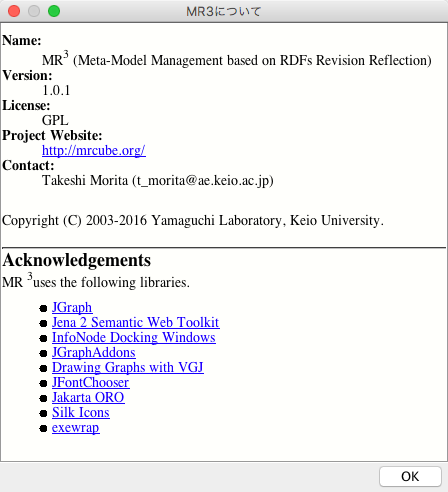
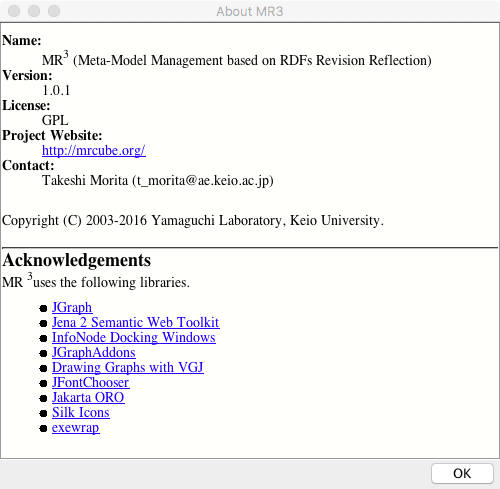
update user_manual.rst

diff --git a/docs/source/user_manual.rst b/docs/source/user_manual.rst
@@ -502,8 +502,13 @@ The users can register perfixes and the corresponding namespaces in the Namespac
 
 Remove Dialog
 -----------------
+If an RDFS class is referred by a type of a resource or a domain or a range of a property, it is inconsistency when the RDFS class is removed. If an RDFS property is reffered in the RDF editor, it is inconsistency when the RDFS property is removed. In these cases, when the users remove those RDFS classes or properties, the Remove Dialog as shown in :numref:`remove-dialog` is shown before removing them actually.
 
-削除対象のRDFSクラスを，RDFリソースのタイプまたはRDFプロパティの定義域または値域が参照している場合，そのRDFSクラスを削除すると整合性を保つことができない．RDFプロパティが削除対象のRDFSプロパティを参照している場合も同様である．これらの場合，RDF(S)コンテンツ管理機能によって， :numref:`remove-dialog` に示す「削除」ダイアログが表示される． :numref:`remove-dialog` 上部の「削除」リストには，削除対象のRDFSクラスのうち，削除すると整合性を保つことができないRDFSクラスまたはRDFSプロパティのリストが表示される． :numref:`remove-dialog` 下部の参照リスト内の「RDF」タブには，削除対象のRDFSクラスをタイプとして参照しているRDFリソースのリストまたは，削除対象のRDFSプロパティを参照しているRDFプロパティのリストが表示される．「プロパティ」タブには，定義域または値域として，削除対象のRDFSクラスを参照しているRDFSプロパティの一覧が表示される．参照リストの「削除」チェックボックスは，RDFSクラスまたは，RDFSプロパティの参照をやめるかどうかの決定に用いる．「削除」チェックボックスをチェックした状態で「適用」ボタンをクリックすると，削除対象のRDFSクラスまたはRDFSプロパティへの参照がたたれる．「削除」チェックボックスのチェックをはずした項目については，「適用」ボタンを押したときに整合性のチェックを行う．「全選択」ボタンは，すべての「削除」チェックボックスにチェックをつける．「全解除」ボタンは，すべての「削除」チェックボックスのチェックをはずす．「反転」ボタンは，現在チェックされているものとされていないものを反転する．「ジャンプ」ボタンは，選択したリソースへジャンプする．RDFリソースのタイプ，定義域，値域を変更したい場合は，ジャンプボタンで該当するリソースへジャンプして変更を行うことができる．
+Removed RDFS classes or properties are shown in the upper part of :numref:`remove-dialog`. RDF resources that referred the removed RDFS classes as their type are shown in the RDF tab in the lower part of :numref:`remove-dialog`. RDF properties that referred the removed RDFS properties are also shown in the RDF tab. RDFS properties that refer removed RDFS classes as their domains or ranges are shown in the Property tab in the lower part of :numref:`remove-dialog`.
+
+If the users check the Delete Checkboxes and click Apply button, RDF resources, RDF properties, and RDFS properties that listed in the lower part of the Remove Dialog stop referring to the removed RDFS classes or RDFS properties. Then, the RDFS classes and RDFS properties are actually removed. 
+
+If the users select one of the RDF resources, RDF properties, or RDFS properties, attributes of the selected resource are shown in the Attribute Dialog. Then, the users can edit the attributes to maintain consistency.
 
 .. _remove-dialog:
 .. figure:: figures/remove_dialog.png
@@ -591,13 +596,11 @@ The users can export RDF(S) data graphs in |MR3| to an RDF(S) document as RDF/XM
 
 Config Dialog
 ----------------
-
-設定ダイアログでは，基本，ディレクトリ，プロキシ，メタクラス，レイアウト，レンダリングについて設定を行うことができる．
+The users can set configurations about basic, directory, proxy, meta class, layout, and rendering in the Config Dialog.
 
 Basic
 ~~~~~~~~~
-
-設定ダイアログの「基本」項目（ :numref:`config-basic` ）では，言語，UI 言語，出力エンコーディング，フォント，ベースURI，ログファイルの設定ができる．言語はラベル表示を行う際に優先して表示する言語を設定できる．UI 言語は，メニューなどに表示する言語を設定できる．言語は，ja（日本語），en（英語），zh（中国語）を選択できる．出力エンコーディングは，エクスポート時にRDF(S)文書を保存するファイルエンコーディングを設定する．フォントは，各エディタ内のノード内の文字列を表示する際のフォントを設定する．ベースURI には，エクスポート時の初期の名前空間URI を設定する．ログファイルには，MR\ :sup:`3` \使用中の各種ログを保存するファイルを設定する．
+When the users select the Basic item as shown in :numref:`config-basic`, language, UI language, output encoding, font, base URI, and log file can be set. If a resource has many multilingual labels, the users should select the prior language. The prior language of labels can be set in the Lang text field. Labels with prior language are shown in each resource when the user select display->label menu. Language of UI such as menu can be set in the UI Lang list. The users can select ja (Japanese), en (English), or zh (Chinsese) from the UI Lang list. Output encoding can be used to export an RDF(S) document. The font of resources can be set by clicking Font Setting button and selecting a font from the font selecting dialog. Default namespace is set based on the Base URI. The directory that a log file is saved can be set by clicking Browse button and selecting the directory from the directory selection dialog.
 
 .. _config-basic:
 
@@ -610,8 +613,7 @@ Basic
 
 Directory
 ~~~~~~~~~~~~
-
-設定ダイアログの「ディレクトリ」項目（ :numref:`config-directory` ）では，作業ディレクトリ，プラグインディレクトリ，リソースディレクトリを設定ができる．作業ディレクトリには，インポートダイアログにおいて，RDF(S)文書を含むフォルダを選択する際に最初に開くフォルダを設定する．プラグインディレクトリには， MR\ :sup:`3` \のプラグインが保存されているフォルダを設定する．リソースディレクトリは， MR\ :sup:`3` \のプロパティファイル（メニューなどに表示する言語ごとの設定ファイル）が保存されているフォルダを設定する．
+When the users select the Directory item as shown in :numref:`config-directory`, work directory, plugins directory, and resources directory can be set. The work directory is a directory that is opened firstly when the users import an RDF(S) document. The plugins directory is a directory that plug-ins of |MR3| are saved. The resources directory is a directory that property files are saved. The property files are defined labels that displayed in |MR3| for each language.
 
 .. _config-directory:
 .. figure:: figures/config_dialog_directory.png
@@ -623,8 +625,7 @@ Directory
    
 Proxy
 ~~~~~~~~
-
-設定ダイアログの「プロキシ」項目（ :numref:`config-proxy` ）では，プロキシサーバを利用している場合に，プロキシサーバのホスト名とポート番号の設定を行うことができる．インポートダイアログからURI を指定して，RDF(S)文書をインポートする場合に設定が必要となる場合がある．   
+When the users select the Proxy item as shown in :numref:`config-proxy`, a host name and a port number of a proxy server can be set. This configuration is necessary to import an RDF(S) document from a URI when the user's environment is under a proxy server.
 
 .. _config-proxy:
 .. figure:: figures/config_dialog_proxy.png
@@ -636,10 +637,9 @@ Proxy
 
 Meta Class
 ~~~~~~~~~~~~~~
+When the users select the Meta Class item as shown in :numref:`config-metaclass`, Class Class and Property Class can be set. If the users set a Class Class, |MR3| regards resources that have the Class Class as their type as classes. If the users set a Property Class, |MR3| regards resources that have the Property Class as their type as properties. These classes and properties are imported in the RDFS class editor or RDFS property editor. 
 
-設定ダイアログの「メタクラス」項目（ :numref:`config-metaclass` ）では，「クラスクラス」および「プロパティクラス」の設定をすることができる．「クラスクラス」に設定したクラスをrdf:typeプロパティの値とするリソースを， MR\ :sup:`3` \はクラスとして認識し，クラスエディタにインポートすることができる．同様に，「プロパティクラス」に設定したクラスをrdf:type プロパティの値とするリソースを， MR\ :sup:`3` \はプロパティとして認識し，プロパティエディタにインポートすることができる．
-
-初期状態では，「クラスクラス」にはrdfs:Class が設定されている．また，「プロパティクラス」には，rdf:Property が設定されている．owl:Class やowl:ObjectProperty をタイプとするリソースを，クラスまたはプロパティとしてMR\ :sup:`3` \にインポートしたい場合には， :numref:`config-metaclass` の「Class Class」タブまたは「Property Class」タブで設定を行う
+In the initial setting, rdfs:Class is defined in Class Class and rdf:Property is defined in Property Class. If the users would like to import OWL classes and properties, owl:Class must be set as Class Class, owl:ObjectProperty and owl:DatatypeProperty must be set as Property Class.
 
 .. _config-metaclass:
 .. figure:: figures/config_dialog_metaclass.png
@@ -651,8 +651,7 @@ Meta Class
 
 Layout
 ~~~~~~~~~~
-
-設定ダイアログの「レイアウト」項目（ :numref:`config-layout` ）では，各エディタ内のデータグラフのレイアウト方法を設定する．
+When the users select the Layout item as shown in :numref:`config-layout`, methods for layout for each editor can be set.
 
 .. _config-layout:
 .. figure:: figures/config_dialog_layout.png
@@ -664,7 +663,7 @@ Layout
 
 Rendering
 ~~~~~~~~~~~~
-設定ダイアログの「レンダリング」項目（ :numref:`config-rendering` ）では，RDFリソース，RDFリテラル，RDFSクラス，RDFSプロパティの各ノードの色や，ノード選択時の色，エディタウィンドウの背景職をカスタマイズすることができる．「ノードに色をつける」チェックボックスのチェックをはずすと，すべてのノードが無色となる．「アンチエイリアス」チェックボックスにチェックをいれると各ノードの縁が滑らかに表示される．
+When the users select Rendering item as shown in :numref:`config-rendering`, colors of each node (RDF resources, RDF literals, RDFS classes, and RDFS properties), colors of each selected node, and background color of each editor can be set. If the users uncheck the Color checkbox, all of the nodes become colorless. If the users check the Antialias checkbox, an edge of each node become smooth.
 
 .. _config-rendering:
 .. figure:: figures/config_dialog_rendering.png
@@ -675,26 +674,21 @@ Rendering
    Config Dialog: Rendering
 
 
-Plug-ins
+Plugins
 ---------
-「ツール」メニューの「拡張機能」を選択すると，:numref:`plugin-dialog` に示すダイアログが表示される．
-「拡張機能」には，設定ダイアログの「ディレクトリ」項目のプラグインディレクトリに指定したディレクトリに含まれる
-jarファイルを読み込んで，プラグインリストを表示する．プラグインを選択すると，説明が画面下部に表示され，
-「実行」ボタンを押すと，プラグインが実行される．プラグイン作成方法については，:doc:`plugin_development` 参照いただきたい．
+When the users select Plugins sub menu in the Tool menu, the dialog as shown in :numref:`plugin-dialog` is shown. |MR3| loads jar files in the plug-ins directory that is set in the Config Dialog. The plugins are shown in the list. If the users select one of the plugins, the description of the plugin is shown at the bottom of the dialog. If the users click Exec button, the selected plugin is executed. Please refer to :doc:`plugin_development` to build |MR3| plugins.
 
 .. _plugin-dialog:
 .. figure:: figures/plugin_dialog.png
    :scale: 100 %
-   :alt:  拡張機能
+   :alt:  Plugins
    :align: center
 
-   拡張機能
+   Plugins
 
 Validator
 -----------
-「ツール」メニューの「整合性検証」を選択すると，:numref:`validator-dialog` に示すダイアログが表示される．
-「整合性検証」では，Jenaの `org.apache.jena.reasoner.ValidityReport <https://jena.apache.org/documentation/javadoc/jena/org/apache/jena/reasoner/ValidityReport.html>`_ を利用し，リテラルのデータ型がプロパティの値域の定義に基いて定義されているかどうかなどを検証することができる．
-
+When the users select Validator sub menu in the Tool menu, the dialog as shown in :numref:`validator-dialog` is shown. |MR3| uses Apache Jena's validation API (`org.apache.jena.reasoner.ValidityReport <https://jena.apache.org/documentation/javadoc/jena/org/apache/jena/reasoner/ValidityReport.html>`_ ) and it is enabled to check if the data type of literals are defined based on a range of property.
 
 .. _validator-dialog:
 .. figure:: figures/validator_dialog.png
@@ -706,9 +700,7 @@ Validator
 
 Project Info
 ------------------
-「ツール」メニューの「プロジェクト情報」を選択すると，:numref:`project-info-dialog` に示すダイアログが表示される．
-「プロジェクト情報」には，現在のプロジェクト名，インポート時間，モデルのリソース数，モデルのリテラル数，モデルのステートメント数，
-クラス数，プロパティ数，すべてのリソース数，すべてのリテラル数，すべてのステートメント数が表示される．
+When the users select Project Info sub menu in the Tool menu, the dialog as shown in :numref:`project-info-dialog` is shown. The current project name, the number of RDF resources, the number of RDF literals, the number of RDF statements, the number of classes, the number of properties, the number of all resources, the number of all literals, the number of all statements are shown in the dialog.
 
 .. _project-info-dialog:
 .. figure:: figures/project_info_dialog.png
@@ -719,23 +711,21 @@ Project Info
    Project Info
 
 
-ログ・コンソール
+Log Console
 -----------------
-「ツール」メニューの「ログ・コンソールを表示」を選択すると，:numref:`log-console` に示すダイアログが表示される．
-ログ・コンソールには，標準出力と標準エラー出力への出力結果が確認できる．
-
+When the users select Show Log Console sub menu in the Tool menu, the dialog as shown in :numref:`log-console` is shown. The users can confirm the standard output and the standard error in the dialog. 
 
 .. _log-console:
 .. figure:: figures/log_console.png
    :scale: 100 %
-   :alt: ログ・コンソール
+   :alt: Log Console
    :align: center
 
-   ログ・コンソール
+   Log Console
 
 About MR3
 -----------
-「ヘルプ」メニューの「MR3について」を選択すると，:numref:`about-mr3` に示すダイアログが表示される．
+When the users select About MR3 sub menu in the Help menu, the dialog as shown in :numref:`about-mr3` is shown. The developer, version, license, project web site, contact, and libraries used in |MR3| are shown in the dialog.
 
 .. _about-mr3:
 .. figure:: figures/about_dialog.png
@@ -751,85 +741,84 @@ Menu
 
 File
 ~~~~~~~~~~
-
-File->New Projedct
-    MR\ :sup:`3` \のプロジェクトを新規に開く．現在の作成中のプロジェクトは，保存するか破棄するかを選択する．
-File->Open Projedct
-    MR\ :sup:`3` \のプロジェクトファイルを開く．
-File->Save Projedct
-    MR\ :sup:`3` \のプロジェクトファイルを保存する．
-File->Save As Projedct
-    MR\ :sup:`3` \のプロジェクトファイルを別名で保存する．
+File->New Project
+    Create new |MR3| project. The users should select save the current project or delete it.
+File->Open Project
+    Open |MR3| project file
+File->Save Project
+    Save |MR3| project file
+File->Save As Project
+    Save As |MR3| project file
 File->Import
-    インポートダイアログを表示．
+    Show Import Dialog
 File->Export
-    エクスポートダイアログを表示．
+    Show Export Dialog
 File->Exit
-    プログラムを終了する．
+    Exit |MR3|
 
 Edit
 ~~~~~~~~~
 Edit->Find Resource
-    リソース検索ダイアログを表示する．    
+    Show Find Resource Dialog
 
-Edit->Select->Select All RDF Nodes
+**Edit->Select->Select All RDF Nodes**
     　
-Edit->Select->Select All Class Nodes
+**Edit->Select->Select All Class Nodes**
 
-Edit->Select->Select All Property Nodes
+**Edit->Select->Select All Property Nodes**
       　  
 
-Display
+View
 ~~~~~~~~
-
-表示->URI表示
-    各エディタのノード内に表示されるラベルを，URI形式で表示する．名前空間テーブルで接頭辞の表示を有効にしている場合，名前空間を接頭辞に置き換えて表示する．
-表示->ID表示
-    各エディタのノード内に表示されるラベルを，ID形式で表示する．
-表示->ラベル表示
-    各エディタのノード内に表示されるラベルを，rdfs:labelで定義されたラベルで表示する．rdfs:labelが定義されていない場合には，URI形式で表示する．
-表示->リソースタイプの表示・非表示
-    RDFリソースのタイプ（矩形）の表示・非表示を行う．
-表示->ツールチップの表示・非表示
-    ツールチップの表示・非表示を行う．
-表示->グループ化・非グループ化
-    RDFリソースとRDFリソースのタイプのグループ化・グループ化解除を行う．
-表示->フォント設定
-    エディタ上に表示される文字のフォントを変更．
+View->URI View
+    URIs of resources are shown in each editor. If namespaces are defined in the Namespace Table, the corresponding prefixes are replaced with the namespaces.
+View->ID View
+    IDs of resources are shown in each editor.
+View->Label View
+    Values of rdfs:label properties are shown in each editor. If a resource does not have rdfs:label property, the URI of the resource is shown instead of the value of rdfs:label property.
+View->Show Resource Type
+    If the users check the Show Resource Type, the type of RDF resources are shown at the top right of each resource.
+View->Show RDF Property Label
+    If the users check the Show RDF Property Label, the label of properties are shown. If it is not checked, the label properties are not shown in the RDF editor.
+View->Show ToolTips
+    If the users check the Show ToolTips, tooltips are shown when the users mouse over the resources.
+View->Apply Layout->RDF
+    Automatically layout the RDF graph
+View->Apply Layout->Class
+    Automatically layout the Class graph
+View->Apply Layout->Property
+    Automatically layout the Property graph
 
 Window
 ~~~~~~~~~~
-
-ウィンドウ->RDFエディタオーバービューを表示
-    RDFエディタの全体を表示する．表示されるウィンドウ内の赤色の四角をドラッグすることで，RDFエディタ内の移動を行うことができ る．また，四角の右下部分をドラッグして，四角の大きさを変更することにより，拡大・縮小を行うことができる．大きくすると拡大し，小さくすると縮小す る．
-ウィンドウ->クラスエディタオーバービューを表示
-    クラスエディタの全体を表示する．機能は，RDFエディタと同様．
-ウィンドウ->プロパティエディタオーバービューを表示
-    プロパティエディタの全体を表示する．機能は，RDFエディタと同様．
+Window->Show RDF Editor Overview
+    The overview of the RDF editor is shown in the dialog. When the users drag a red rectangle, part of the RDF graph in the red rectangle are shown in the RDF editor. The users can change the size of the red rectangle by dragging the right down part. It is enabled to expand and reduce the editor.
+Window->Show Class Editor Overview
+    The overview of the Class editor is shown in the dialog. The functions of the dialog is as same as RDF Editor Overview.
+Window->Show Property Editor Overview
+    The overview of the Property editor is shown in the dialog. The functions of the dialog is as same as RDF Editor Overview.
     
-ウィンドウ->RDFエディタを前面に表示
+**Window->To Front RDF Editor**
         
-ウィンドウ->クラスエディタを前面に表示
+**Window->To Front Class Editor**
     
-ウィンドウ->プロパティエディタを前面に表示
+**Window->To Front Property Editor**
     
-ウィンドウ->アトリビュートダイアログを前面に表示
+**Window->Show Attribute Dialog**
     
-ウィンドウ->名前空間テーブルを前面に表示
+**Window->Show Namespace Table**
     
-ウィンドウ->ソースダイアログを前面に表示
-    
-ウィンドウ->ログコンソールを表示
-    MR\ :sup:`3` \の標準出力・標準エラー出力を表示するウィンドウを表示する．主にデバッグ用．
-ウィンドウ->ウィンドウを再配置
-    RDFエディタ，クラスエディタ，プロパティエディタを初期位置に戻す．
+Window->Layout->Deploy Windows (C,P,R)
+    The RDF editor, the Property editor, and the Class editor are shown.
+Window->Layout->Deploy Windows (C,R)
+    The Class editor and the RDF editor are shown.
+Window->Layout->Deploy Windows (P,R)
+    The Property editor and the RDF editor are shown.
 
 Help
 ~~~~~~~~~
-
-ヘルプ->About MR\ :sup:`3` \
-    MR\ :sup:`3` \のバージョン，HPのURL等を表示する．
- 
+Help->About MR\ :sup:`3` \
+    The developer, version, license, project web site, contact, and libraries used in |MR3| are shown in the dialog.
  
 Toolbar
 ------------------
@@ -865,43 +854,41 @@ Toolbar
 Shortcut keys
 -------------------
 
-全体で使えるショートカットキー
+Shortcut keys that can be used in |MR3|
 ~~~~~~~~~~~~~~~~~~~~~~~~~~~~~~~~~~~~~~~~~~
 Ctrl-N
-    MR\ :sup:`3` \のプロジェクトを新規に開く．現在の作成中のプロジェクトは，保存するか破棄するかを選択する．
+    Create new |MR3| project. The users should select save the current project or delete it.
 Ctrl-O
-    MR\ :sup:`3` \のプロジェクトファイルを開く．
+    Open |MR3| project file
 Ctrl-S
-    MR\ :sup:`3` \のプロジェクトファイルを保存する．
+    Save |MR3| project file
 Ctrl+Shift+S
-    MR\ :sup:`3` \のプロジェクトファイルを別名で保存する．
+    Save as |MR3| project file
 Ctrl+Q
-    メニューの終了のショートカット
+    Exit |MR3|
 Alt+R
-    RDFエディタを前面に表示
+    Show the RDF Editor to the front
 Alt+C
-    クラスエディタを前面に表示
+    Show the Class Editor to the front
 Alt+P
-    プロパティエディタを前面に表示
+    Show the Property Editor to the front
 Alt+A
-    アトリビュートダイアログを前面に表示
-Alt+S
-    ソースダイアログを前面に表示
+    Show the Attribute Dialog
 Alt+N
-    名前空間テーブルを前面に表示
+    Show the Namespace Table
 Alt+F
-    リソース検索ダイアログを前面に表示
+    Show the Find Resource Dialog
 
-エディタ内で使えるショートカットキー
+Shortcut keys that can be used in editors
 ~~~~~~~~~~~~~~~~~~~~~~~~~~~~~~~~~~~~~~~~~~~~~~~~~~~~~
 Ctrl-A
-    エディタ内のノードをすべて選択する
+    Select all of the nodes in a editor
 Delete
-    エディタ内の選択されたノードを削除する
+    Delete selected nodes in a editor
 Ctrl-C
-    エディタ内の選択されたノードをコピーする
+    Copy selected nodes in a editor
 Ctrl-X
-    エディタ内の選択されたノードをカットする
+    Cut selected nodes in a editor
 Ctrl-V
-    コピーまたは，カットされたノードをエディタにペーストする
+    Paste nodes that are copied or cut.
 
